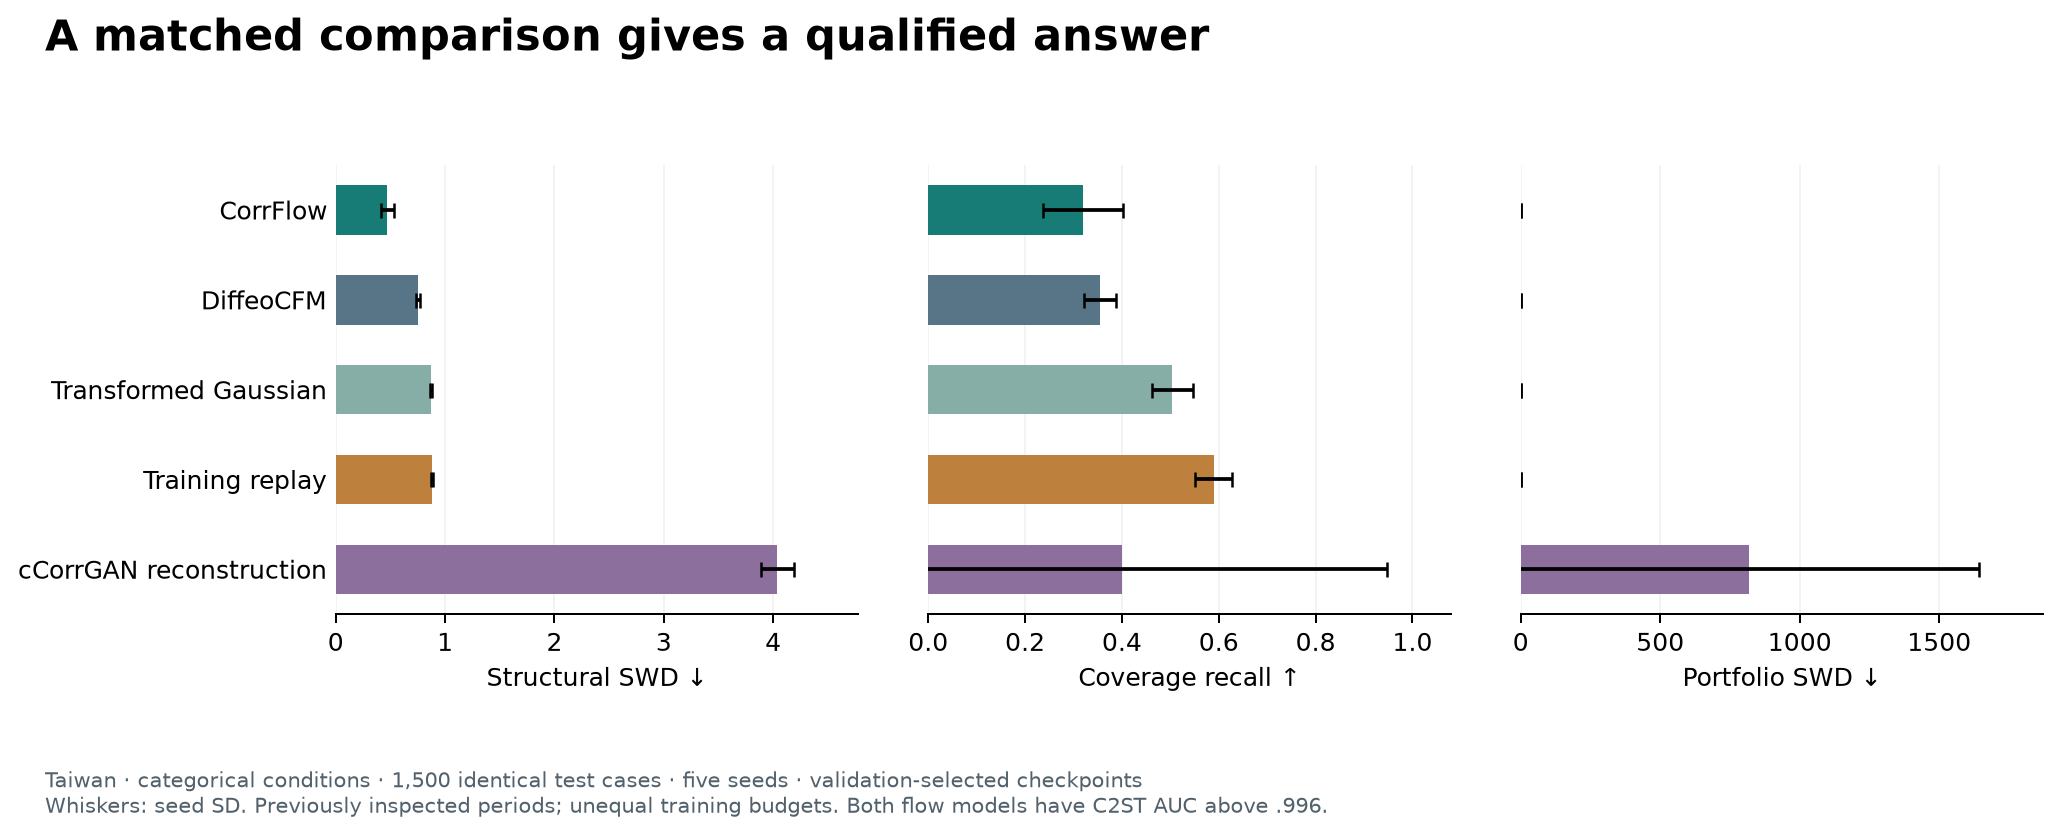
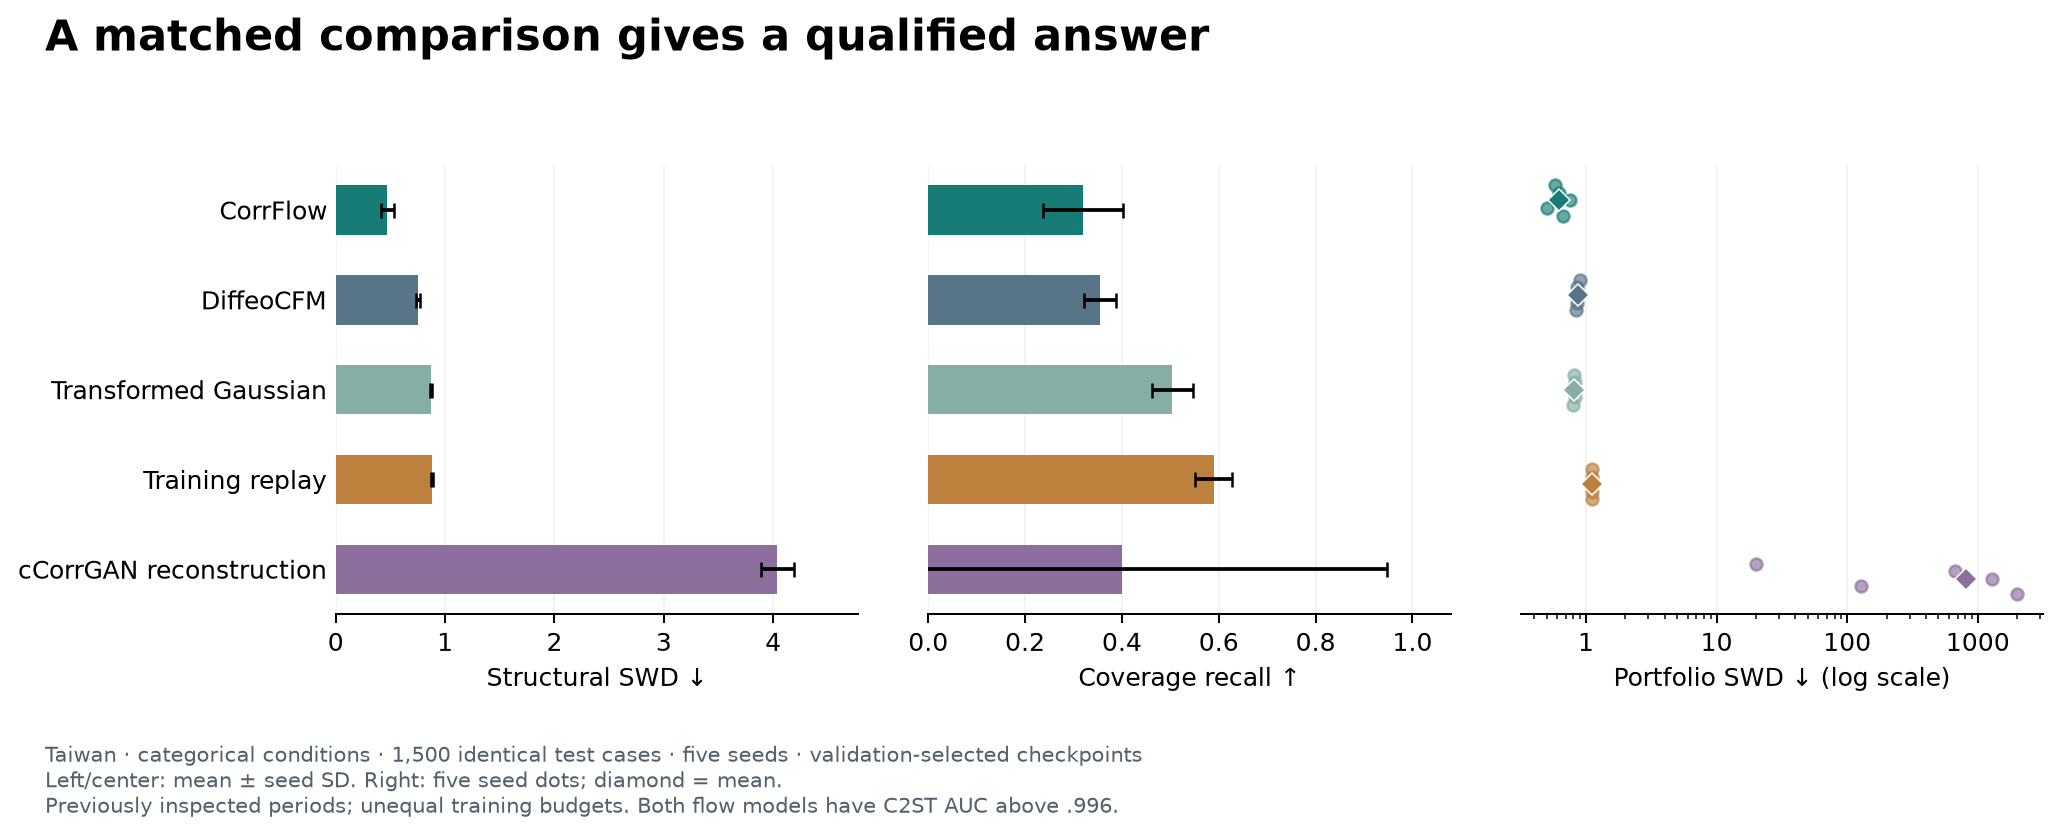
Make portfolio distance comparison readable on a log scale

diff --git a/README.md b/README.md
@@ -105,6 +105,9 @@ remains unestablished.
 
 ![Matched categorical comparison with coverage and portfolio diagnostics](docs/figures/matched_taiwan.png)
 
+Portfolio SWD uses a logarithmic axis: dots show the five seeds and diamonds
+show their means. The other panels retain linear axes and mean ± seed SD.
+
 The repository also supports a node-identity extension and anonymous-node
 ablation for ABIDE, plus the categorical weather pilot. The initial brain
 augmentation experiment establishes no gain over real-only training. The weather
